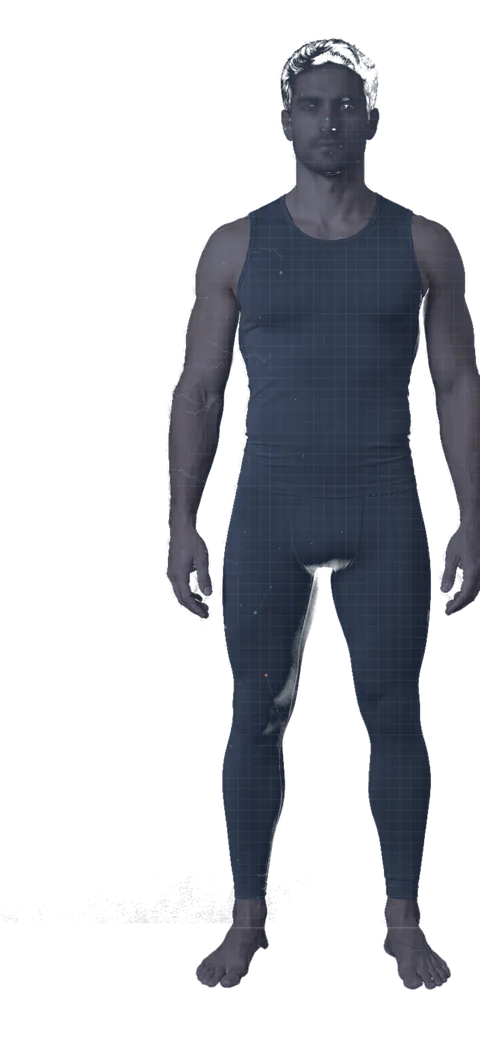
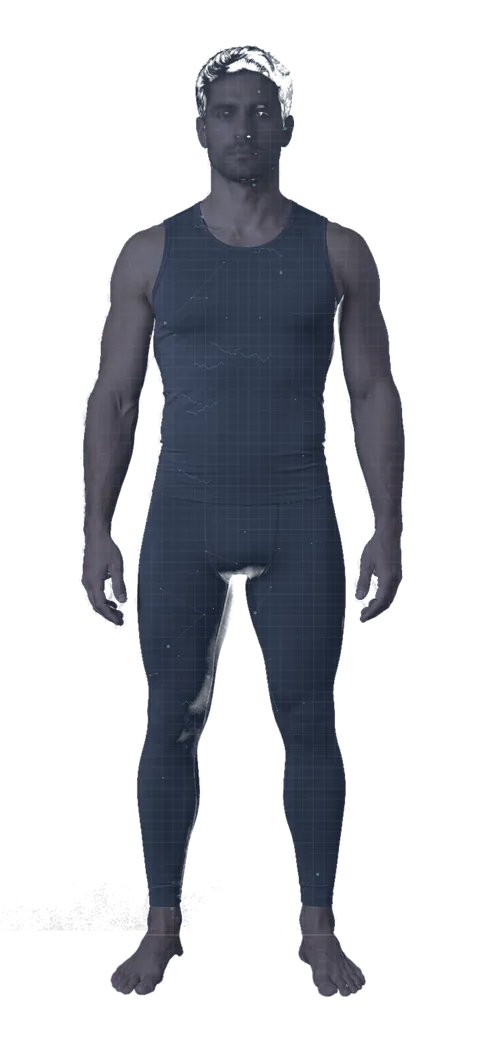
Center male HDM figure on the female hotspot optical axis.
Soft-alpha fringe was biasing width crop ~140px right of bodyCubes; fit now places the solid-body midline on the locked female CX/top and bumps the figure cache.

diff --git a/src/components/home/humanDataModel/HumanSilhouette.tsx b/src/components/home/humanDataModel/HumanSilhouette.tsx
@@ -29,7 +29,7 @@ interface Props {
   onSelectCategory: (id: string) => void;
 }
 
-const FIGURE_CACHE = 'v=17';
+const FIGURE_CACHE = 'v=18';
 
 function hexToRgba(hex: string, alpha: number): string {
   const h = hex.replace('#', '');

diff --git a/scripts/generate-hdm-human.py b/scripts/generate-hdm-human.py
@@ -64,29 +64,77 @@ def _alpha_bbox(alpha: Image.Image, thresh: int = 16) -> tuple[int, int, int, in
     return bbox
 
 
+def _optical_cx(alpha: Image.Image, thresh: int = 40) -> float:
+    """Mean horizontal midline of solid rows (body axis), ignoring soft fringe."""
+    solid = alpha.point(lambda v: 255 if v >= thresh else 0)
+    bbox = solid.getbbox()
+    if not bbox:
+        # Fall back to any-alpha bbox center.
+        bbox = alpha.getbbox()
+        if not bbox:
+            raise SystemExit("empty cutout")
+        return (bbox[0] + bbox[2]) * 0.5
+    x0, y0, x1, y1 = bbox
+    px = solid.load()
+    mids: list[float] = []
+    for y in range(y0, y1):
+        left = None
+        right = None
+        for x in range(x0, x1):
+            if px[x, y]:
+                if left is None:
+                    left = x
+                right = x
+        if left is not None and right is not None:
+            mids.append((left + right) * 0.5)
+    if not mids:
+        return (x0 + x1) * 0.5
+    return sum(mids) / len(mids)
+
+
+# Female-locked placement on the 800×1747 canvas (bodyCubes / hotspot reference).
+_FEMALE_TOP_FRAC = 74 / 1747
+_FEMALE_OPTICAL_CX_FRAC = 403.6 / 800  # measured solid mid-of-row on locked female WebP
+
+
 def fit_cutout(cut: Image.Image, tw: int, th: int, pad_frac: float = 0.045) -> Image.Image:
     """Fit cutout into OUT canvas with consistent head-to-toe height.
 
-    Height is the primary constraint (match female ~90% frame). Wide male poses
-    may exceed canvas width and are center-cropped — never shrink the whole
-    figure to preserve side padding (that left male ~61% tall).
+    Height is the primary constraint (match female ~90% frame). Wide poses may
+    exceed canvas width and are cropped — never shrink the whole figure to
+    preserve side padding (that left male ~61% tall).
+
+    Horizontal placement uses the solid-body optical axis (not the soft-alpha
+    bbox). Male cutouts carry a wide left fringe that used to bias center-crop
+    ~140px right of the hotspot column. Vertical top + optical CX match female.
     """
     a = cut.split()[-1]
-    bbox = _alpha_bbox(a)
+    # Soft silhouette extent (hair/feet fringe); optical axis uses solid body.
+    bbox = _alpha_bbox(a, thresh=16)
     person = cut.crop(bbox)
     pw, ph = person.size
+    opt_cx = _optical_cx(person.split()[-1], thresh=40)
+
     max_h = int(th * (1 - 2 * pad_frac))
     scale = max_h / ph
     nw, nh = max(1, int(pw * scale)), max(1, int(ph * scale))
+    opt_cx *= scale
     person = person.resize((nw, nh), Image.Resampling.LANCZOS)
-    if nw > tw:
-        left = (nw - tw) // 2
-        person = person.crop((left, 0, left + tw, nh))
-        nw = tw
+
+    # Place so body midline → female optical CX (hotspot axis). x may be negative
+    # (drop left fringe) or person may overhang the right — composite overlap only.
+    target_cx = tw * _FEMALE_OPTICAL_CX_FRAC
+    x = int(round(target_cx - opt_cx))
+    y = int(round(th * _FEMALE_TOP_FRAC))
+    y = max(0, min(y, th - nh))
+
     canvas = Image.new("RGBA", (tw, th), (0, 0, 0, 0))
-    x = (tw - nw) // 2
-    y = max(int(th * pad_frac * 0.6), (th - nh) // 2 - int(th * 0.01))
-    canvas.alpha_composite(person, (x, y))
+    src_x0 = max(0, -x)
+    dst_x0 = max(0, x)
+    copy_w = min(nw - src_x0, tw - dst_x0)
+    if copy_w > 0:
+        tile = person.crop((src_x0, 0, src_x0 + copy_w, nh))
+        canvas.alpha_composite(tile, (dst_x0, y))
     return canvas
 
 
